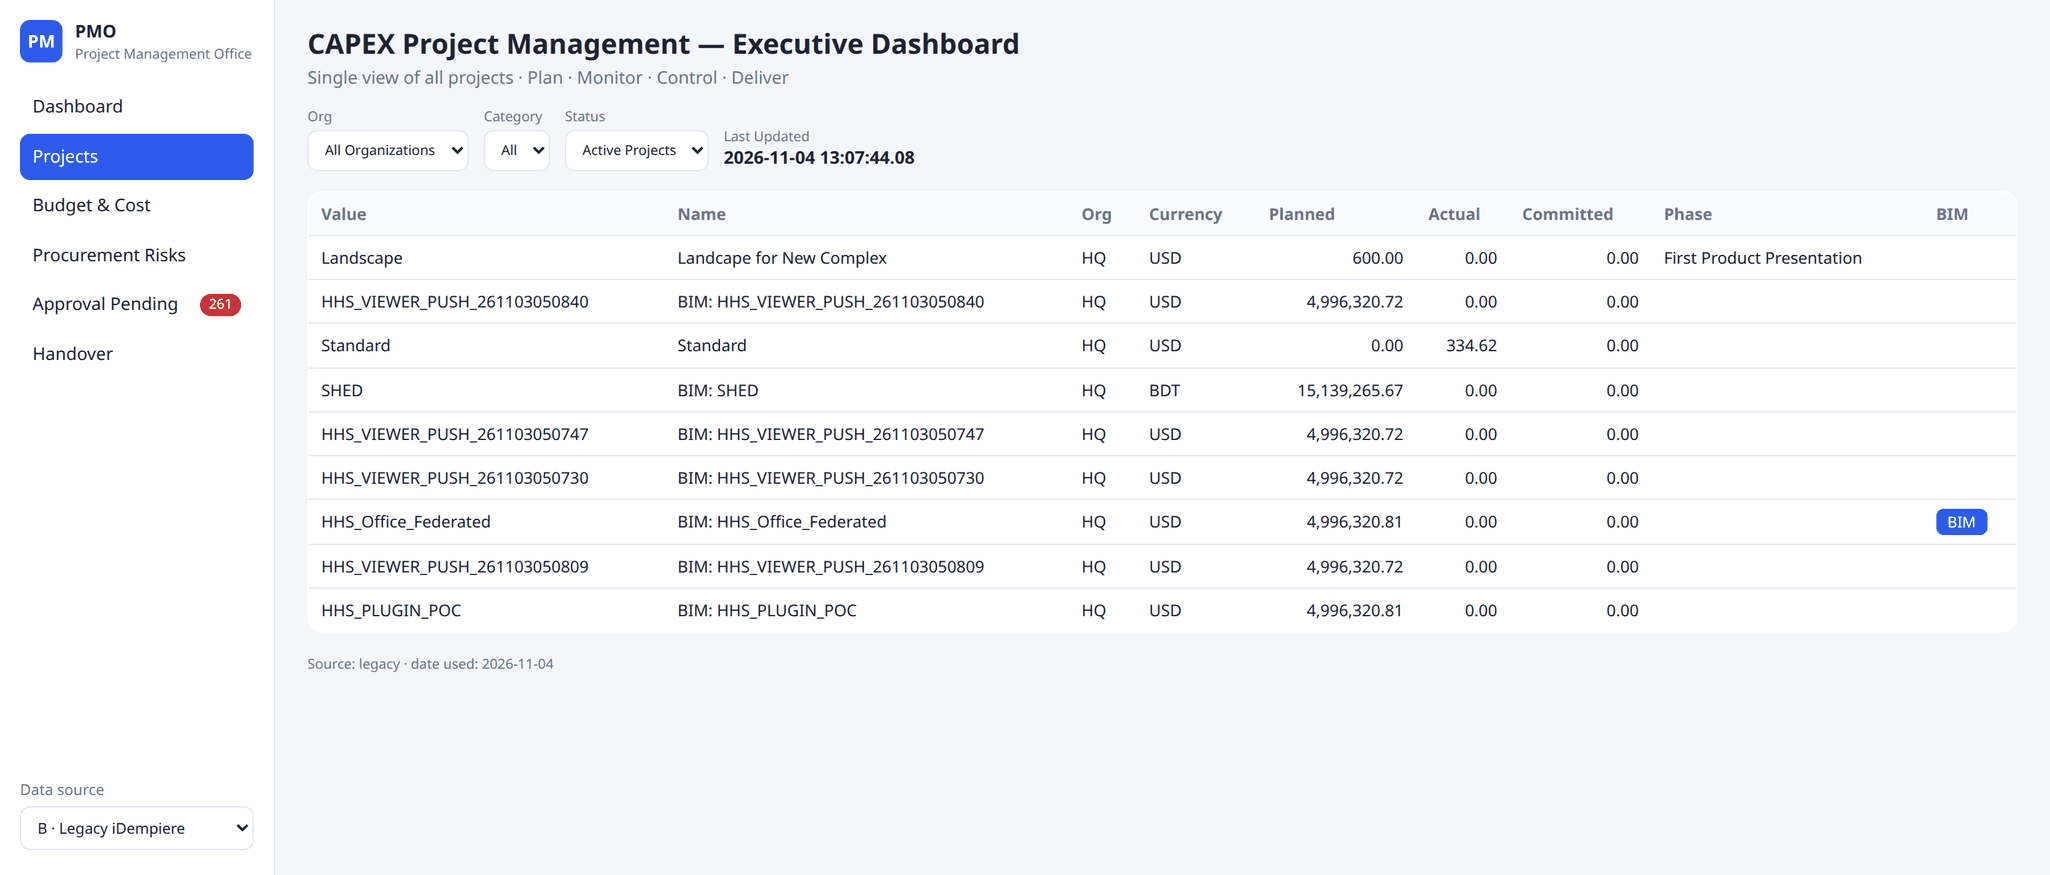
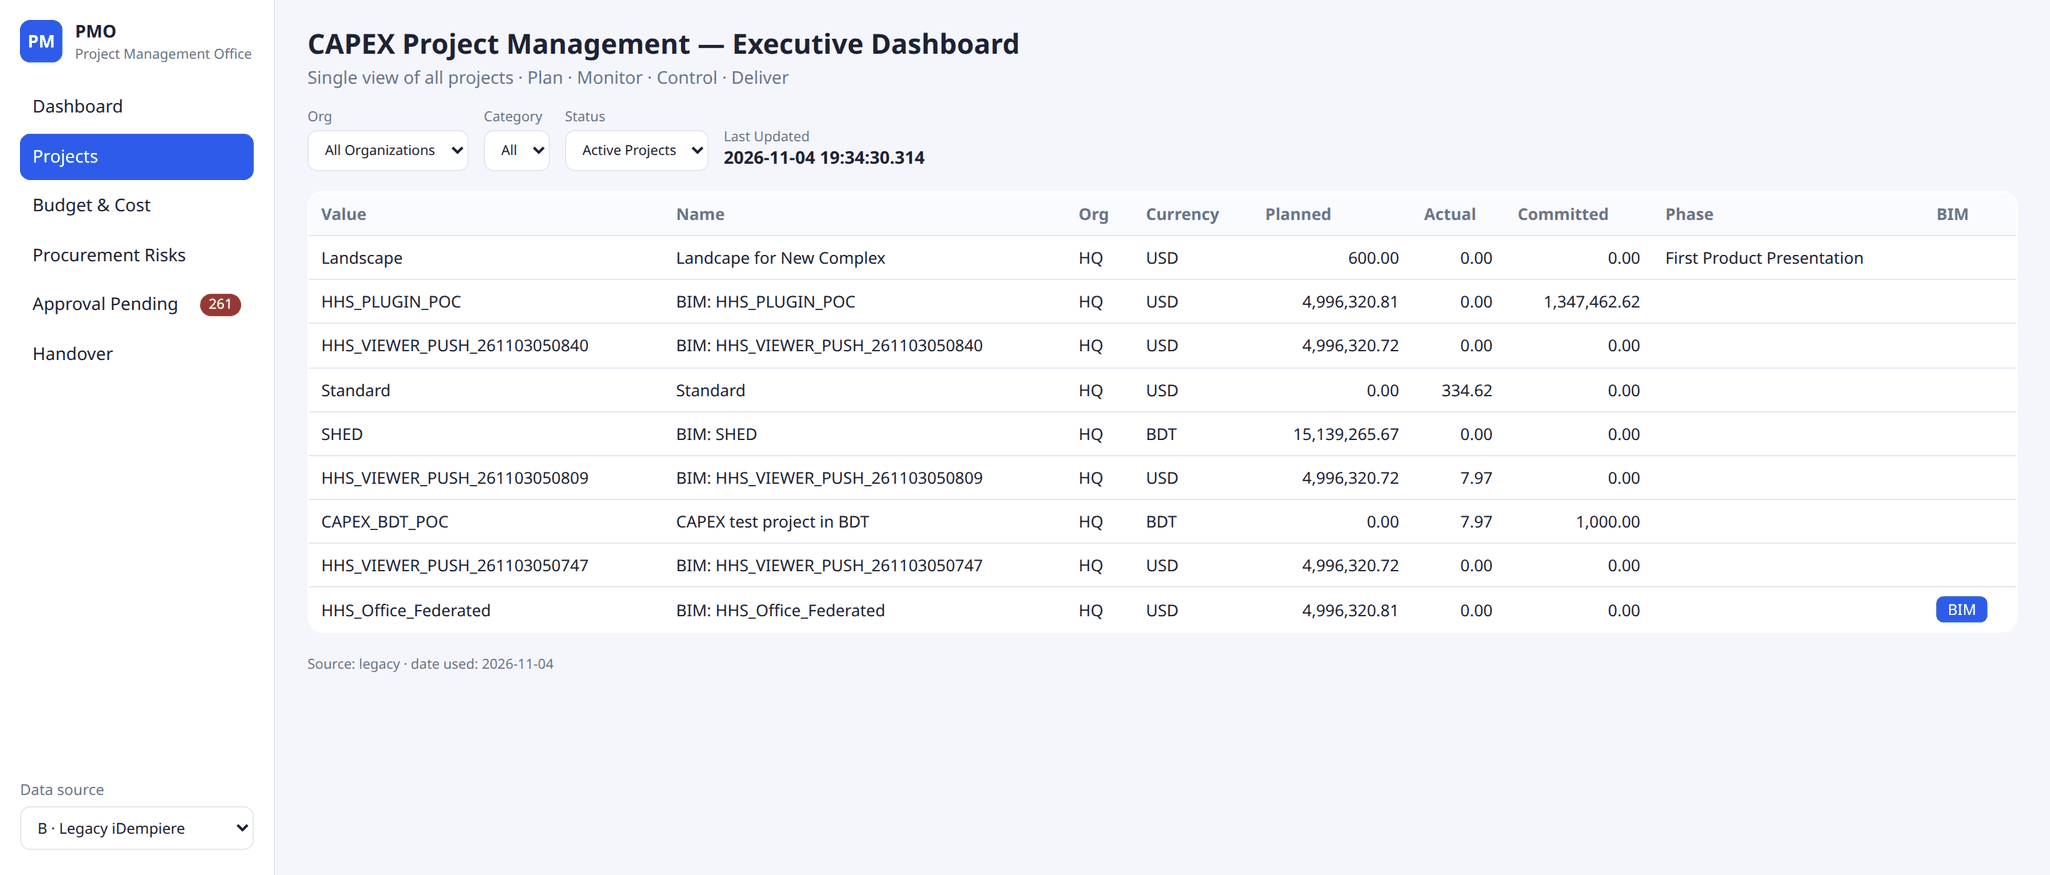
docs: CAPEX guide: sample now carries real documents; what truly moves each figure (a PO does not fill Committed Cost)

diff --git a/docs/CapexDashboardGuide.md b/docs/CapexDashboardGuide.md
@@ -42,13 +42,13 @@ Money is shown **per currency**, never added together.
 
 | Tile | Sample shows | Where it comes from |
 |---|---|---|
-| Total Projects (All) | 12, Closed: 0 | Every `C_Project`. Closed = `Processed = Y` |
+| Total Projects (All) | 13, Closed: 1 | Every `C_Project`. Closed = `Processed = Y` |
 | Active Projects | 9 | `IsActive = Y` and `Processed = N` |
-| Approved Budget | USD 29,978,524.50, BDT 15,139,265.67 | Sum of `PlannedAmt` |
-| Actual Cost | USD 334.62, BDT 0.00 | Sum of `ProjectBalanceAmt`, also as % of plan |
-| Committed Cost | USD 0.00, BDT 0.00 | Sum of `CommittedAmt`, with `InvoicedAmt` under it |
+| Approved Budget | USD 24,982,203.77, BDT 15,139,265.67 | Sum of `PlannedAmt` |
+| Actual Cost | USD 342.59, BDT 7.97 | Sum of `ProjectBalanceAmt`, also as % of plan |
+| Committed Cost | USD 1,347,462.62, BDT 1,000.00 (invoiced USD 8.10, BDT 0.00) | Sum of `CommittedAmt`, with `InvoicedAmt` under it |
 | Forecast Cost at Completion | definition pending | No formula agreed yet |
-| Projects Completed this year | 0 | `Processed = Y` with `DateFinish` in this year |
+| Projects Completed this year | 1 | `Processed = Y` with `DateFinish` in this year |
 
 ### The panels
 
@@ -60,16 +60,24 @@ These work per project, from its **Phase** tab, with three amounts:
 
 | Panel | Sample shows | What it means |
 |---|---|---|
-| Project Health | Red 3, No EVM data 6 | **No EVM data**: nothing due yet. **Green**: Done is at least 90% of Due, and of Spent if there is any. **Red**: below 90% on all of them. **Amber**: mixed |
+| Project Health | Green 1, Amber 1, Red 1, No EVM data 6 | **No EVM data**: nothing due yet. **Green**: Done is at least 90% of Due, and of Spent if there is any. **Red**: below 90% on all of them. **Amber**: mixed |
 | Project Stage | (no phase) 8, First Product Presentation 1 | Count by the project's Standard Phase (`C_Phase_ID`). Your own stages are not mapped onto this yet |
-| Physical vs Spent | USD 0%, BDT 0% for both | **Physical** = Done as a share of all phases' planned amount. **Spent** = `ProjectBalanceAmt` as a share of `PlannedAmt`. Payment-based progress is not in the ERP |
-| Schedule Performance | On Time 2, At Risk 3, No schedule data 4, Delayed 0, Average Delay 190 days | **No schedule data**: no phase with both dates. **At Risk**: Done is under 90% of Due. **Delayed**: a phase not Complete is past its End Date. Average Delay is over At Risk and Delayed projects |
-| Budget Status | Over 1, Not Started 8, Within 0, Overrun USD 334.62 | **Not Started**: nothing spent. **Over**: Spent is above Planned. Overrun is the excess |
+| Physical vs Spent | Physical USD 20%, BDT 0%. Spent 0% (the amounts spent are tiny) | **Physical** = Done as a share of all phases' planned amount. **Spent** = `ProjectBalanceAmt` as a share of `PlannedAmt`. Payment-based progress is not in the ERP |
+| Schedule Performance | On Time 2, Delayed 1, At Risk 2, No schedule data 4, Average Delay 180 days | **No schedule data**: no phase with both dates. **At Risk**: Done is under 90% of Due. **Delayed**: a phase not Complete is past its End Date. Average Delay is over At Risk and Delayed projects |
+| Budget Status | Within 1, Over 2, Not Started 6, Overrun USD 334.62, BDT 7.97 | **Not Started**: nothing spent. **Over**: Spent is above Planned. Overrun is the excess |
 
-**Why the sample looks the way it does.** Nothing has been marked Complete, so the three projects with a phase already due show
-Red: *SHED*, and two test runs dated January. Two others have dated phases with nothing due yet, so they count as On Time and No
-EVM data. The Over project is *Standard*: it has material issued to it and no budget. Six of the nine are pushes of the same test
-building. Nothing was added to make the page look fuller, so tiles the test server has not reached stay at 0.
+**What is in the sample.** Real documents on a test server, entered through iDempiere's own services, not invented figures. Most of
+the projects are test pushes of one building, so the amounts themselves mean nothing. What each one is there to show:
+
+| Project | What was done in iDempiere | Where it lands |
+|---|---|---|
+| HHS_VIEWER_PUSH_..840 | All phases past due. 5 of 6 marked Complete | Health Green, Schedule Delayed |
+| HHS_VIEWER_PUSH_..809 | All phases past due. Smallest marked Complete, material issued | Health Amber, At Risk, Budget Within |
+| SHED | One phase past due, not Complete | Health Red, At Risk |
+| HHS_PLUGIN_POC | Marked Commitment, Committed Amount on a line, one sales invoice | Committed Cost, Invoiced |
+| CAPEX_BDT_POC | New project in BDT: Committed Amount, material issued, no budget | BDT amounts, Budget Over, Overrun |
+| Standard | Material issued, no budget | Budget Over, Overrun |
+| HHS_VIEWER_PUSH_..730 | Finish Date entered, then Close Project | Closed, Completed this year. Not Active any more |
 
 ### The other views
 
@@ -92,7 +100,7 @@ project, including inactive ones. Set Status to **All** and they agree:
 
 | Figure | Page, Status Active | Page, Status All | Home tab goal |
 |---|---|---|---|
-| Approved Budget (USD) | 29,978,524.50 | 39,971,166.17 | 39,971,166 |
+| Approved Budget (USD) | 24,982,203.77 | 39,971,166.17 | 39,971,166 |
 | Approved Budget (BDT) | 15,139,265.67 | 30,286,701.64 | 30,286,702 |
 
 ---
@@ -192,24 +200,34 @@ The 90% is the one rule a client stated. The rest are our working definitions, a
 
 ## What moves the numbers
 
-Both places only read your project records. They fill up when these are filled in:
+Both places only read your project records. These are the iDempiere actions behind each figure, read from iDempiere's own code and
+tried on the test server:
 
-| You do this | Where | What it moves |
+| Figure | What moves it | Where |
 |---|---|---|
-| Add phases with Start Date and End Date | **Project** window, **Phase** tab | Leaves *No schedule data* |
-| Give phases a Planned Amount | **Phase** tab | Health and At Risk can be judged |
-| Tick **Complete** when a phase finishes | **Phase** tab | Done rises |
-| Issue material to the project | **Issue to Project** | Spent rises: Actual Cost, Budget goals |
+| Schedule goals | Phases with Start Date and End Date | **Project** window, **Phase** tab |
+| Due, Done, Health | Planned Amount on phases. Tick **Complete** when a phase finishes | **Phase** tab |
+| Actual Cost, Budget goals | Issue material to the project | **Issue to Project** |
+| Committed Cost | Tick **Commitment** on the project, then type **Committed Amount** on its lines | **Project** window, **Project Line** tab |
+| Invoiced | Complete a **sales** invoice with the Project field set | **Sales Invoice and Credit/Debit Note** |
+| Closed | Run **Close Project** | **Project** window |
+| Completed this Year | Enter **Finish Date**, and close the project | **Project** window |
 
-**A measured example.** On the test server, ticking **Complete** on one phase of one project moved five goals. It was then undone.
+Three things that may surprise you:
+
+- **A purchase order does not fill Committed Cost.** iDempiere has no code that writes it from a PO, not even Generate PO from Project. It is typed in.
+- **Close Project does not set the Finish Date.** Without one, the project counts as Closed but not as Completed this Year.
+- **Actual Cost is in your accounting currency, whatever the project's.** Issue to Project adds the product's cost without converting it. On the test server, a BDT project shows 7.97, which is the USD cost. If you run projects in another currency, read that tile knowing this.
+
+**A measured example.** On the test server, ticking **Complete** on SHED's one overdue phase moved five goals. It was then undone.
 
 | Home tab caption | Before | After |
 |---|---|---|
-| Health Green | 0% | 11% |
-| Health Red | 3 | 2 |
+| Health Green | 11% | 22% |
+| Health Red | 1 | 0 |
 | Schedule On Time | 22% | 33% |
-| Schedule At Risk | 3 | 2 |
-| Schedule Average Delay (days) | 190 | 284 |
+| Schedule At Risk | 2 | 1 |
+| Schedule Average Delay (days) | 180 | 269 |
 
 The average delay went **up** although a project improved: it left the average, and it had one of the shorter delays.
 Read that goal beside the At Risk and Delayed counts, not on its own.
@@ -328,9 +346,8 @@ address to open on your data.
 | Project Stage, Physical vs Spent, project lists on the Home tab | Page only, not goals |
 | Other currencies on the Home tab | No money goal covers them until you add one. The page shows each currency it finds |
 
-**Not yet seen working on real data.** These have read 0 on the test server, so we have not seen them count anything
-on it: Closed Projects, Completed this Year, Committed Cost, Invoiced, Actual Cost and Overrun in BDT, Health Amber, Schedule Delayed, Budget Within. Health
-Green was seen only during the example above.
+**Still 0 on the test server: Invoiced (BDT).** It has no BDT price list or USD-to-BDT rate, so a sales invoice can't reach a BDT
+project. Every other goal has counted real documents.
 
 **Check Approval Pending against your own meaning of "approval".** It counts every suspended workflow activity. On
 the test server all 261 are on **Business Partner**, not on project documents.
@@ -341,8 +358,8 @@ the test server all 261 are on **Business Partner**, not on project documents.
 
 - Every tile drawn on the page equals the formula run separately over the sample's rows (19 of 19, at Status Active and All).
 - Every CAPEX caption on the test server's real Home tab equals the browser copy's, all 27.
-- Home tab values equal iDempiere's own stored goals, recalculated just before comparing. 15 of 27 had a value; the other 12 were 0
-  on both sides, which proves nothing.
+- For 26 of the 27 goals, Home tab values equal iDempiere's own goals, recalculated just before comparing. The other, Invoiced (BDT), is 0 on both sides, which proves nothing.
+- iDempiere's calculation, the browser copy's and the page's own formulas agree on the same rows.
 - A real edit in iDempiere reached the browser copy after the next job and reload, changing exactly one row, and was undone.
 
 Not checked: a site larger than this test server. If the job stops, the copy just goes quietly out of date.
